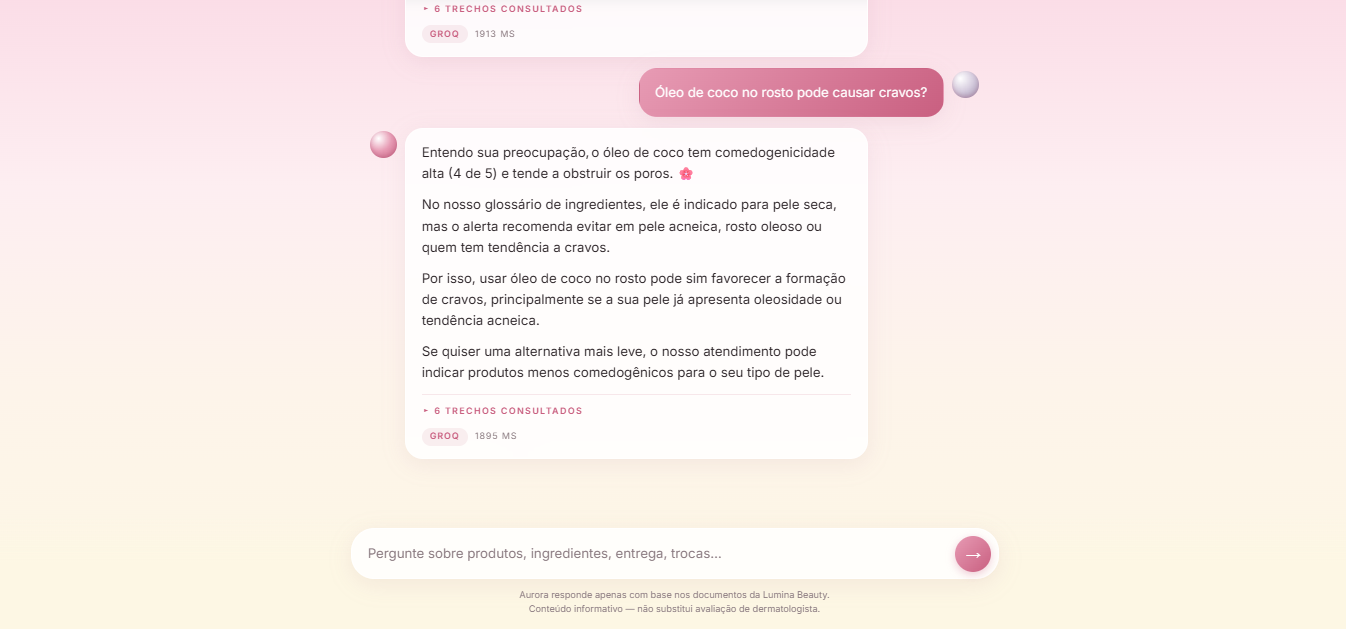
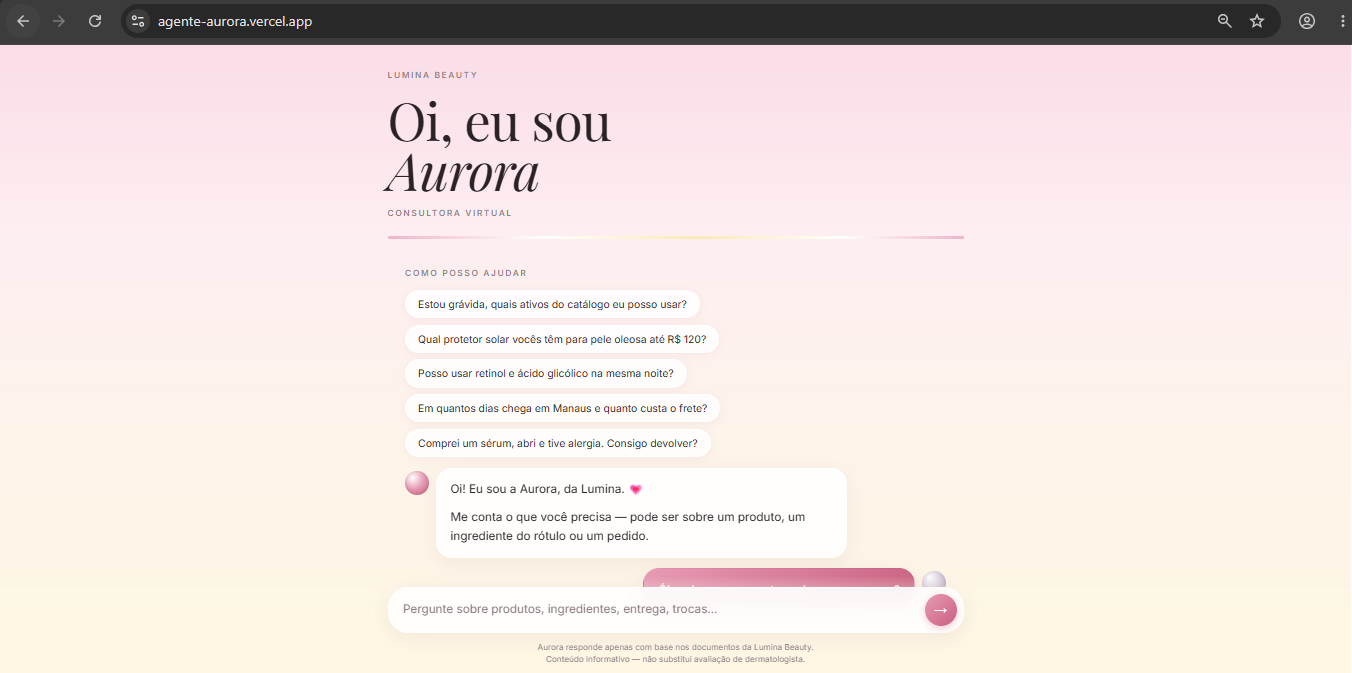
docs: capturas do agente em producao, com a URL visivel e as fontes abertas
Troca as capturas anteriores, que ainda mostravam a abertura repetitiva
'Entendo sua duvida' removida no commit 42. As novas cobrem os tres pontos que
o desafio pede como evidencia: a aplicacao no ar com o endereco da Vercel na
barra, a rastreabilidade de cada resposta ate arquivo e linha, e uma
recomendacao de produto respeitando tipo de pele e teto de preco.

Changed region(s): [[0.0, 0.0, 1.0, 0.5135], [0.2808, 0.5437, 0.6241, 0.8156], [0.2808, 0.8156, 0.7489, 0.9968]]

diff --git a/README.md b/README.md
@@ -457,13 +457,22 @@ Passo a passo em **[`docs/deploy-vercel.md`](docs/deploy-vercel.md)**.
 |---|---|
 | **URL pública** | **<https://agente-aurora.vercel.app>** |
 
-![Aurora respondendo sobre comedogenicidade do óleo de coco](docs/evidencia-deploy.png)
+![Aurora em produção, com a URL da Vercel na barra de endereços](docs/evidencia-deploy.png)
 
-A resposta cita a comedogenicidade 4 de 5 e a contraindicação para pele acneica,
-ambas vindas do glossário, e o rodapé mostra quantos trechos foram consultados,
-qual provedor respondeu e em quanto tempo.
+### Rastreabilidade da resposta
 
-![Aurora explicando a combinação de retinol com ácido glicólico](docs/capturas/conversa-combinacao-de-ativos.png)
+Toda resposta abre a lista dos trechos que a sustentam, com arquivo, linha e
+pontuação de relevância. Aqui a comedogenicidade 4 de 5 do óleo de coco veio da
+linha 64 do glossário — dá para conferir a informação na fonte.
+
+![Painel de fontes aberto, mostrando arquivo, linha e relevância de cada trecho](docs/capturas/fontes-citadas.png)
+
+### Recomendação de produto com restrição de preço
+
+![Aurora recomendando dois protetores solares dentro do limite de preço](docs/capturas/recomendacao-de-produto.png)
+
+A pergunta trazia duas restrições ao mesmo tempo — tipo de pele e teto de preço.
+Nome, código e valor saem do CSV do catálogo, sem invenção.
 
 Conferência rápida do que está no ar:
 
